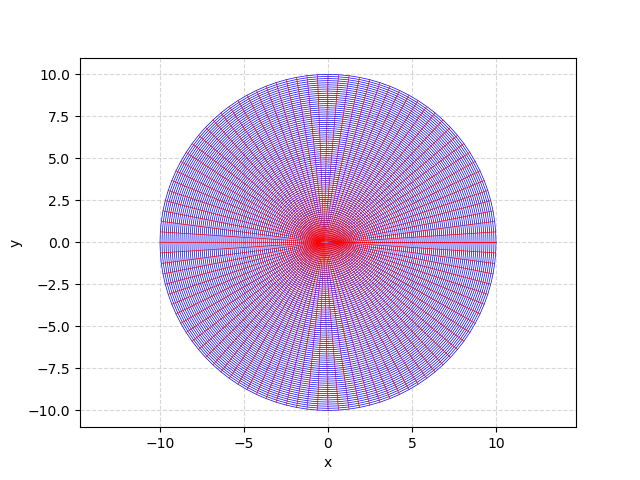
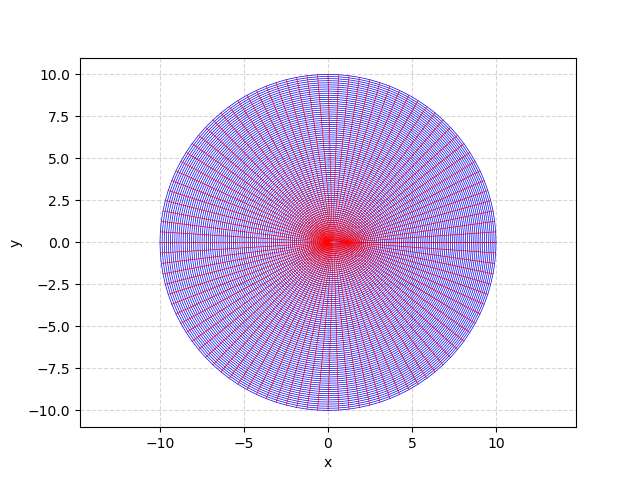
Closed TE

Changed region(s): [[0.25, 0.1562, 0.7812, 0.8438]]

diff --git a/Bonus_Assignment/airfoil.py b/Bonus_Assignment/airfoil.py
@@ -17,12 +17,22 @@ def load_airfoil_data(filename):
 
 def parametric_interpolation(x, y, num_points=200):
     """Interpolates the airfoil as a single continuous curve using parametric cubic splines."""
+    # Ensure the trailing edge is smoothly tapered
+    if x[0] != x[-1] or y[0] != y[-1]:
+        # Average the y-coordinates of the first and last points to ensure a smooth trailing edge
+        y_te = (y[0] + y[-1]) / 2
+        x = np.append(x, x[0])  # Close the loop by appending the first point
+        y = np.append(y, y_te)  # Use the averaged y-coordinate for the trailing edge
+
+    # Ensure the first and last y values are identical for periodic boundary conditions
+    y[-1] = y[0]  # Force the last y value to match the first
+
     # Create a parameter t based on the index
     t = np.linspace(0, 1, len(x))
 
-    # Create cubic splines for both x(t) and y(t)
-    cs_x = CubicSpline(t, x)
-    cs_y = CubicSpline(t, y)
+    # Create cubic splines for both x(t) and y(t) with periodic boundary conditions
+    cs_x = CubicSpline(t, x, bc_type="periodic")
+    cs_y = CubicSpline(t, y, bc_type="periodic")
 
     # Generate smooth parametric values
     t_new = np.linspace(0, 1, num_points)
@@ -30,6 +40,23 @@ def parametric_interpolation(x, y, num_points=200):
     y_new = cs_y(t_new)
 
     return x_new, y_new
+
+
+# def parametric_interpolation(x, y, num_points=200):
+#     """Interpolates the airfoil as a single continuous curve using parametric cubic splines."""
+#     # Create a parameter t based on the index
+#     t = np.linspace(0, 1, len(x))
+
+#     # Create cubic splines for both x(t) and y(t)
+#     cs_x = CubicSpline(t, x)
+#     cs_y = CubicSpline(t, y)
+
+#     # Generate smooth parametric values
+#     t_new = np.linspace(0, 1, num_points)
+#     x_new = cs_x(t_new)
+#     y_new = cs_y(t_new)
+
+#     return x_new, y_new
 
 
 def plot_airfoil(x, y, x_new, y_new):

diff --git a/Bonus_Assignment/elliptic_grid_generation.py b/Bonus_Assignment/elliptic_grid_generation.py
@@ -20,7 +20,7 @@ def GS_iterartion(x, y, ξ, η, max_iter=1000, tolerance=1e-6):
     a, b, c = coeff(x, y, ξ, η)
     Δξ = ξ[1] - ξ[0]
     Δη = η[1] - η[0]
-    for i in range(max_iter):
+    for iter in range(max_iter):
         for i in range(1, len(ξ) - 1):
             for j in range(1, len(η) - 1):
                 x_new[i, j] = (
@@ -89,10 +89,10 @@ def GS_iterartion(x, y, ξ, η, max_iter=1000, tolerance=1e-6):
         error = x_error + y_error
 
         if error < tolerance:
-            print(f"Converged in {i + 1} iterations")
+            print(f"Converged in {iter + 1} iterations")
             break
 
-        x, y = np.copy(x_new), np.copy(y_new)
+        x, y = x_new, y_new
 
     return x_new, y_new
 

diff --git a/Bonus_Assignment/main.py b/Bonus_Assignment/main.py
@@ -12,7 +12,7 @@ filename = "naca2412.dat"
 x_afl_pts, y_afl_pts = load_airfoil_data(filename)
 
 # Perform parametric cubic spline interpolation
-x_afl_pts = x_afl_pts-0.5
+#x_afl_pts = x_afl_pts-0.5
 x_airfoil, y_airfoil = parametric_interpolation(x_afl_pts, y_afl_pts)
 plot_airfoil(x_afl_pts, y_afl_pts, x_airfoil, y_airfoil)
 
@@ -20,6 +20,6 @@ plot_airfoil(x_afl_pts, y_afl_pts, x_airfoil, y_airfoil)
 x, y, ξ, η = grid_generation(num_xi, num_eta, x_airfoil, y_airfoil, R_outer)
 plot_grid(x, y, "grid_tfi.png")
 
-x, y = GS_iterartion(x, y, ξ, η, max_iter=500)
+x, y = GS_iterartion(x, y, ξ, η, max_iter=100)
 plot_grid(x, y, "grid_elliptic.png")
 

diff --git a/Bonus_Assignment/tfi.py b/Bonus_Assignment/tfi.py
@@ -56,10 +56,13 @@ if __name__ == "__main__":
 
     # Perform parametric cubic spline interpolation
     x_airfoil, y_airfoil = parametric_interpolation(x_afl_pts, y_afl_pts)
-    x_airfoil = x_airfoil-0.5
+
 
     # Generate the grid
     x, y, ξ, η = grid_generation(num_xi, num_eta, x_airfoil, y_airfoil, R_outer)
+    # print(x[0,:]-x[-1,:])
+    # print(y[0,:]-y[-1,:])
+
 
     # Plot the grid
     plot_grid(x, y, "grid_tfi.png")
